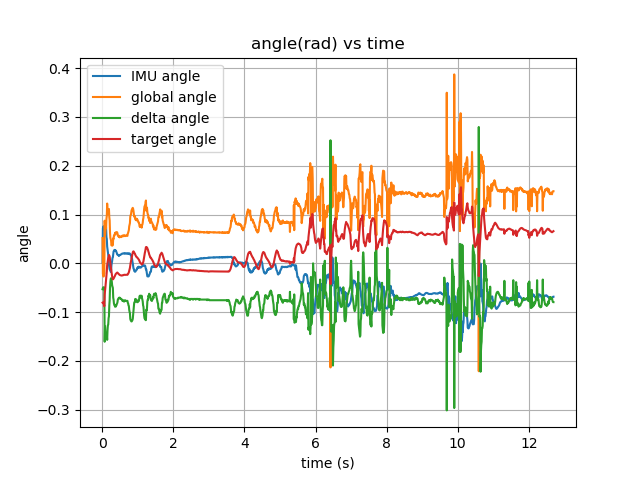
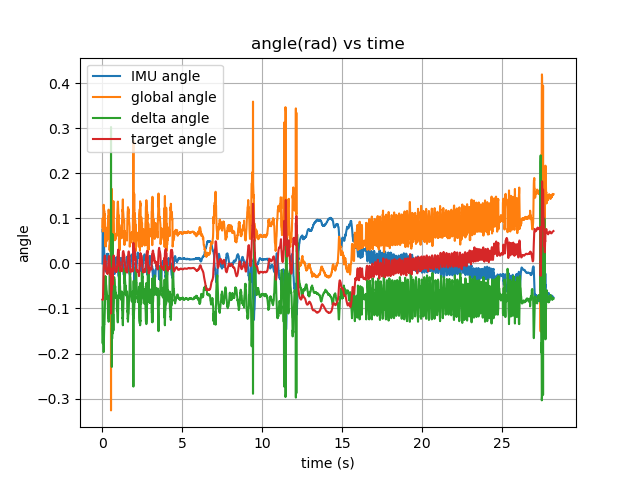
fine tune filter

diff --git a/testt_no_depth.py b/testt_no_depth.py
@@ -183,7 +183,7 @@ def call_heartBeat():
             CvCmder.CvCmd_Heartbeat(gimbal_pitch_target=Global_xyz_filtered[1], gimbal_yaw_target=Global_xyz_filtered[2], chassis_speed_x=0, chassis_speed_y=0)
         else:
             CvCmder.CvCmd_Heartbeat(gimbal_pitch_target=Global_xyz_filtered[1], gimbal_yaw_target=Global_xyz_filtered[2], chassis_speed_x=0, chassis_speed_y=0)
-        time.sleep(1/200)
+        time.sleep(1/500)
 
 model = YOLO("best.pt")
 CvCmder = CvCmdApi.CvCmdHandler('/dev/ttyUSB0')
@@ -323,7 +323,7 @@ while True:
                     frame["video"] = cv2.circle(frame["video"], (center_x,center_y), 10, (255, 0, 0) , 2)
                     frame["disparity"] = cv2.circle(frame["disparity"], (int((((4*(center_x+160))/4056)*640)),int(400*(((center_y+30)*4+220)/3040))), 60, (255, 255, 255) , 2)
                     
-                    focal_length_in_pixel = 1280 *0.8* 4.81 / 11.043412
+                    focal_length_in_pixel = 1280 *0.95* 4.81 / 11.043412
                     focal_length_in_pixel_pitch =  1.8*960 * 4.81 / 11.043412
                     
                     theta  = math.atan((center_x - 320)/focal_length_in_pixel)
@@ -343,21 +343,20 @@ while True:
                     #roll pitch yaw
                     # Yaw clockwise + 
                     # Pitch down +
-                    print("this is",theta)
+                    #print("this is",theta)
+                    
                     Global_xyz[2]= cur_angle[2]+theta
                     Global_xyz[1]= phi - cur_angle[1]
                     # Global_xyz = (np.array(Global_xyz)+np.array(last))/2
                     target_yaw_record = np.append(target_yaw_record,Global_xyz[2])
                     target_pitch_record = np.append(target_pitch_record,Global_xyz[1])
 
-                    # target_yaw_record = savgol_filter(target_yaw_record, 40, 3, mode='nearest',cval=0)
-                    # target_pitch_record = signal.savgol_filter(target_pitch_record, 40, 3, mode='nearest')
-                    
-                    b,a= signal.ellip(3, 0.05, 40, 0.125)
+                    #Numbers for tunning 
+                    b,a= signal.ellip(3, 0.05, 60, 0.125)
                     target_yaw_record = signal.filtfilt(b, a,target_yaw_record,method="gust")
                     target_pitch_record = signal.filtfilt(b, a,target_pitch_record,method="gust")
 
-
+        
                     Global_xyz_filtered[2] = target_yaw_record[-1]
                     Global_xyz_filtered[1] = target_pitch_record[-1]-0.08
 
@@ -378,7 +377,6 @@ while True:
                     break
                 else:
                     enemy_detected= False
-         
         cv2.imshow("video", frame["video"])
         cv2.imshow("depth", frame["disparity"])
 
